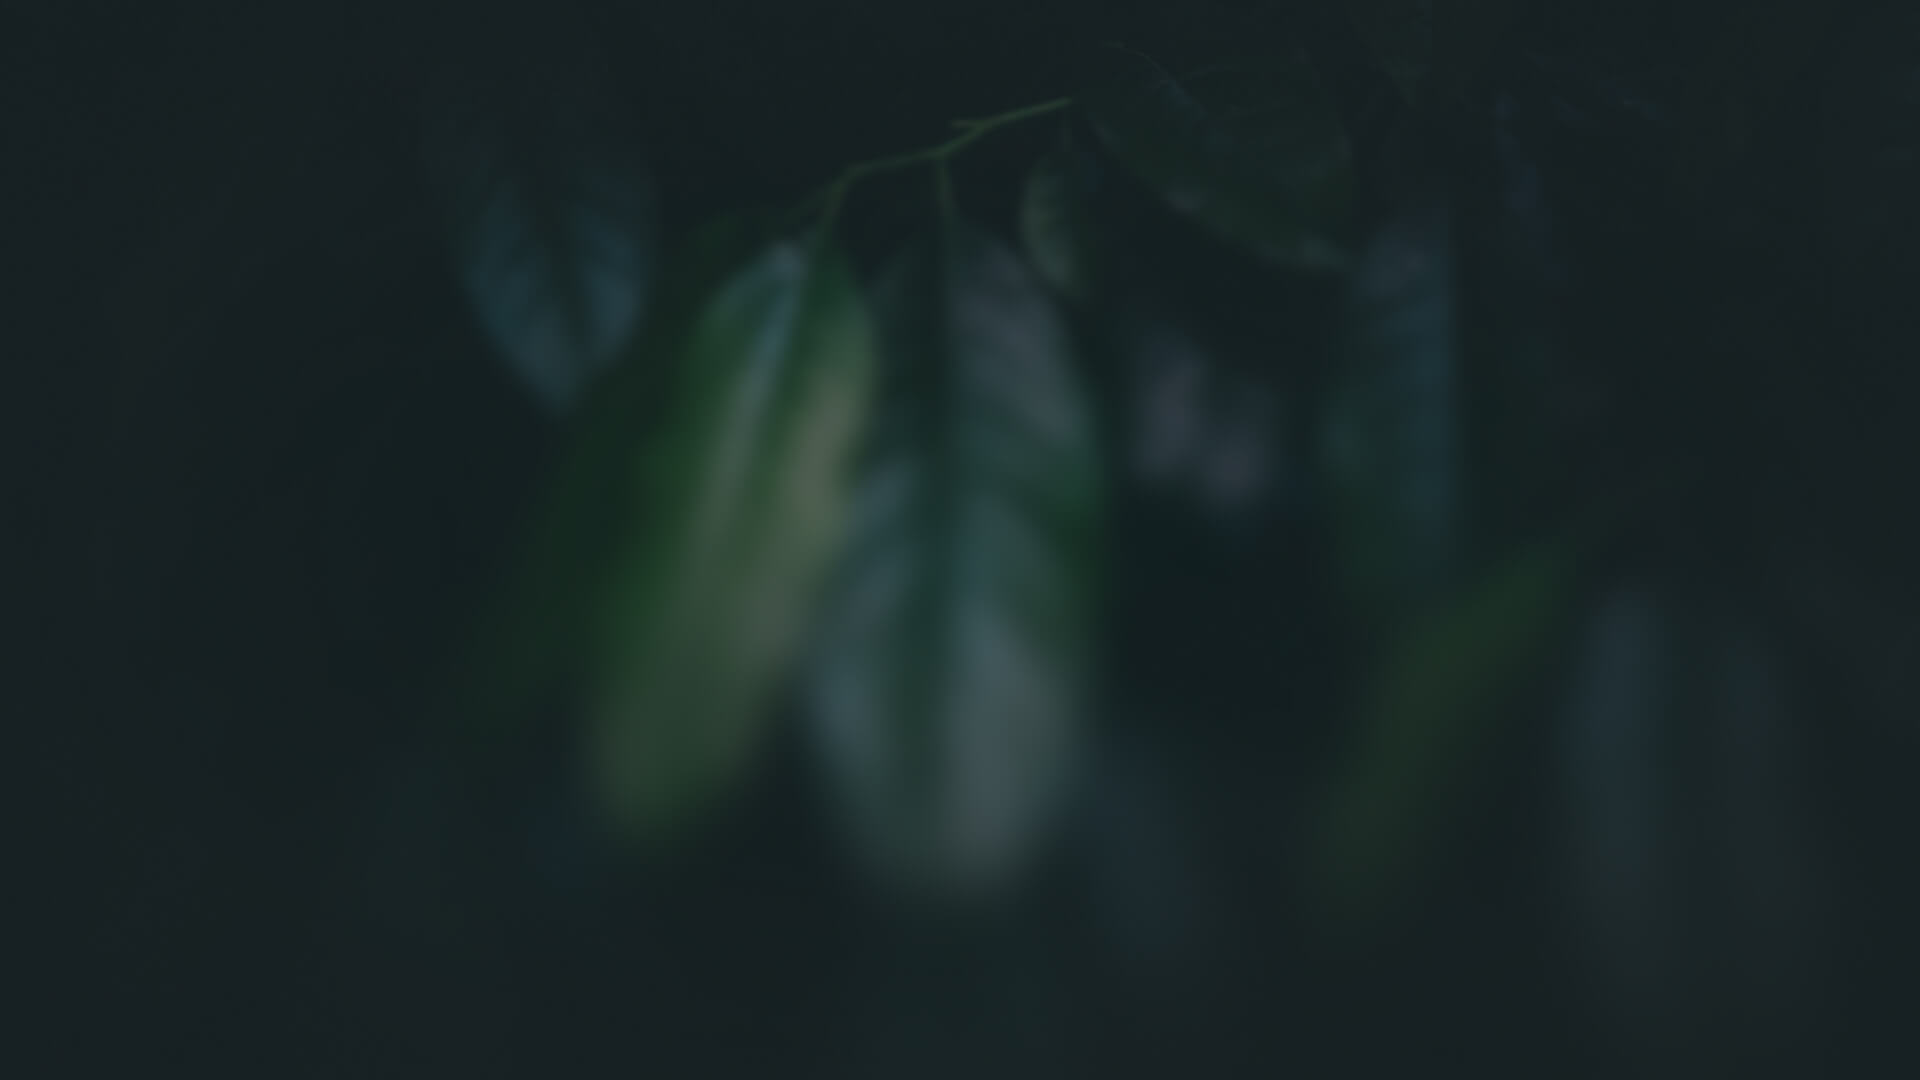
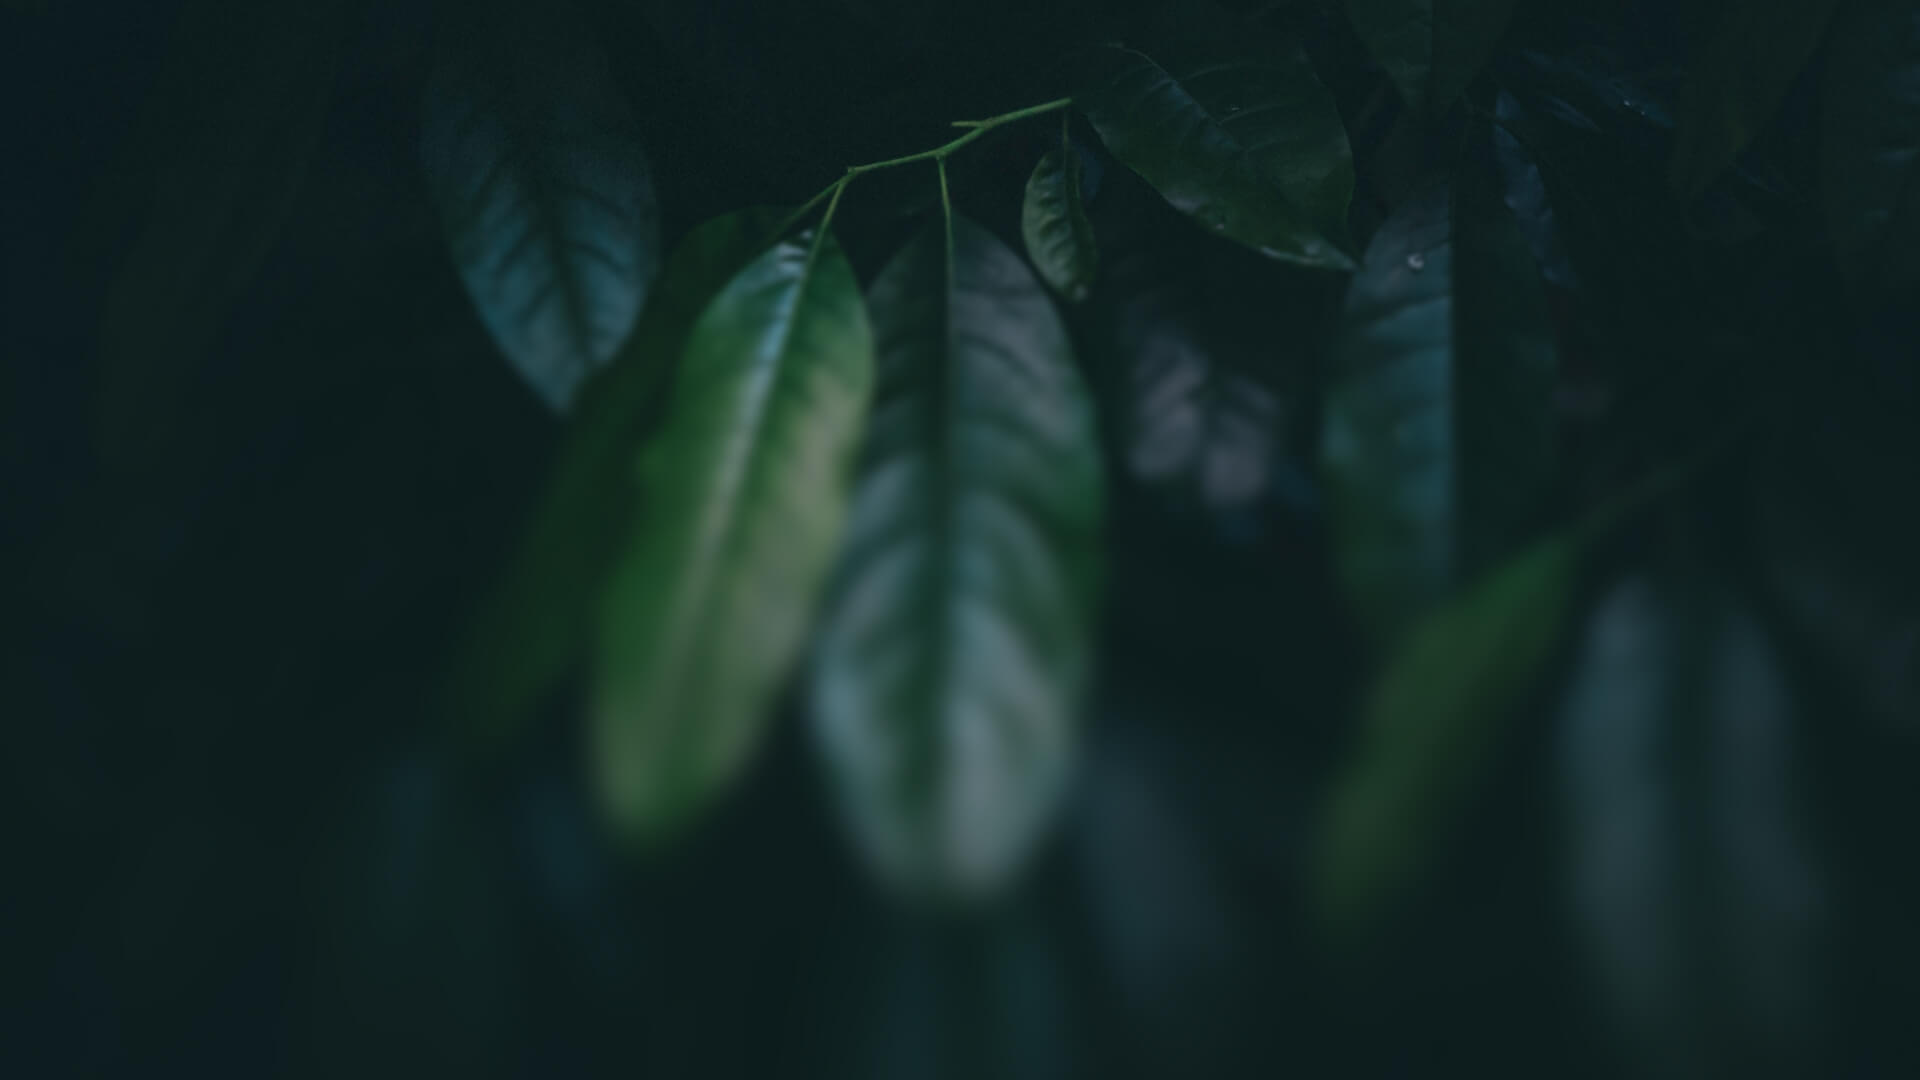
tweaks: wallpaper back to jpg; dunst/alacritty/i3/theme adjustments

diff --git a/everforest-green-dark-dim.md b/everforest-green-dark-dim.md
@@ -25,7 +25,7 @@ the same contrast offset relative to the new main bg.
 | borders / separators  | #434a4e  | #3a4141  |
 | terminal black        | #475258  | #323c41  |
 
-Foreground/accents are unchanged: fg `#d3c6aa`, green `#a7c080`, red `#e67e80`,
+Foreground/accents are unchanged: fg `#ffffff`, green `#a7c080`, red `#e67e80`,
 yellow `#dbbc7f`, blue `#7fbbb3`, purple `#d699b6`, aqua `#83c092`,
 orange `#e69875`, greys `#7a8478` / `#859289`.
 
@@ -113,7 +113,7 @@ commit `2dd7dd9e96992f80596603807f9254f8d4ef90dd`, pre April-2021 rework).
 ### polybar (replaces i3bar)
 
 - `~/.config/polybar/config.ini` + `launch.sh` (launched from i3 config).
-- Bottom bar: `background #1e2326`, `foreground #d3c6aa`,
+- Bottom bar: `background #1e2326`, `foreground #ffffff`,
   `border #3a4141`, focused workspace green `#a7c080` on `#1e2326`,
   urgent `#e67e80`. Font GeistMono Nerd Font Mono 11.
 - Old `bar {}` block kept commented in i3 config as fallback; `i3blocks.conf`
